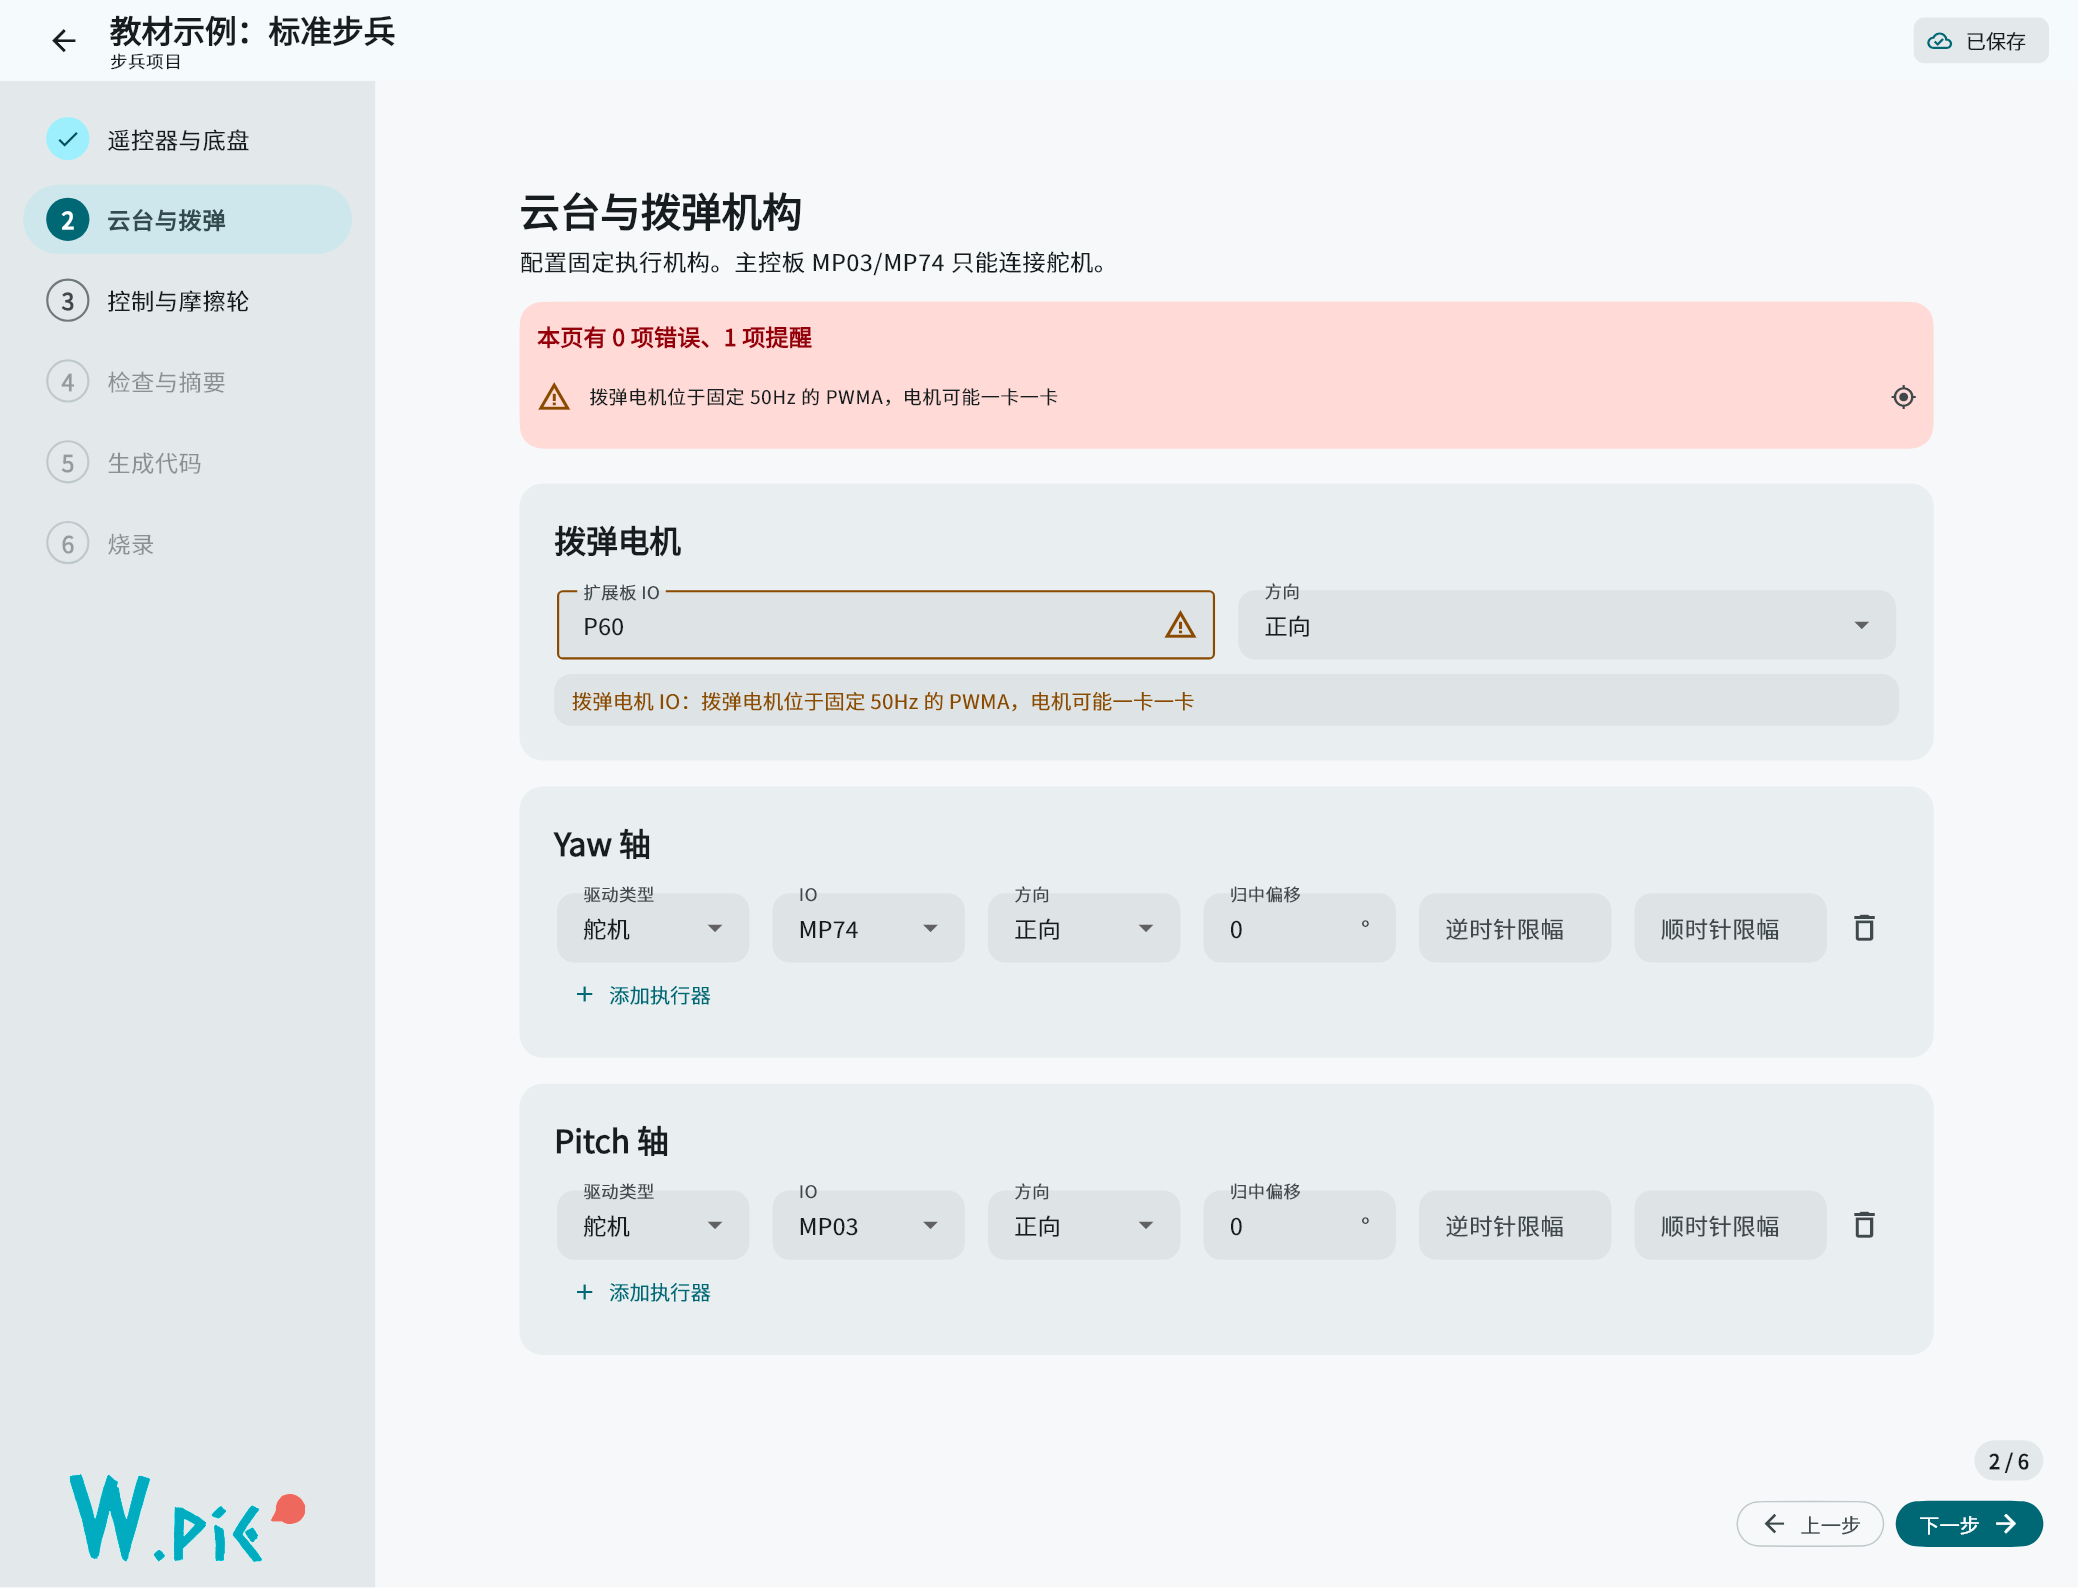
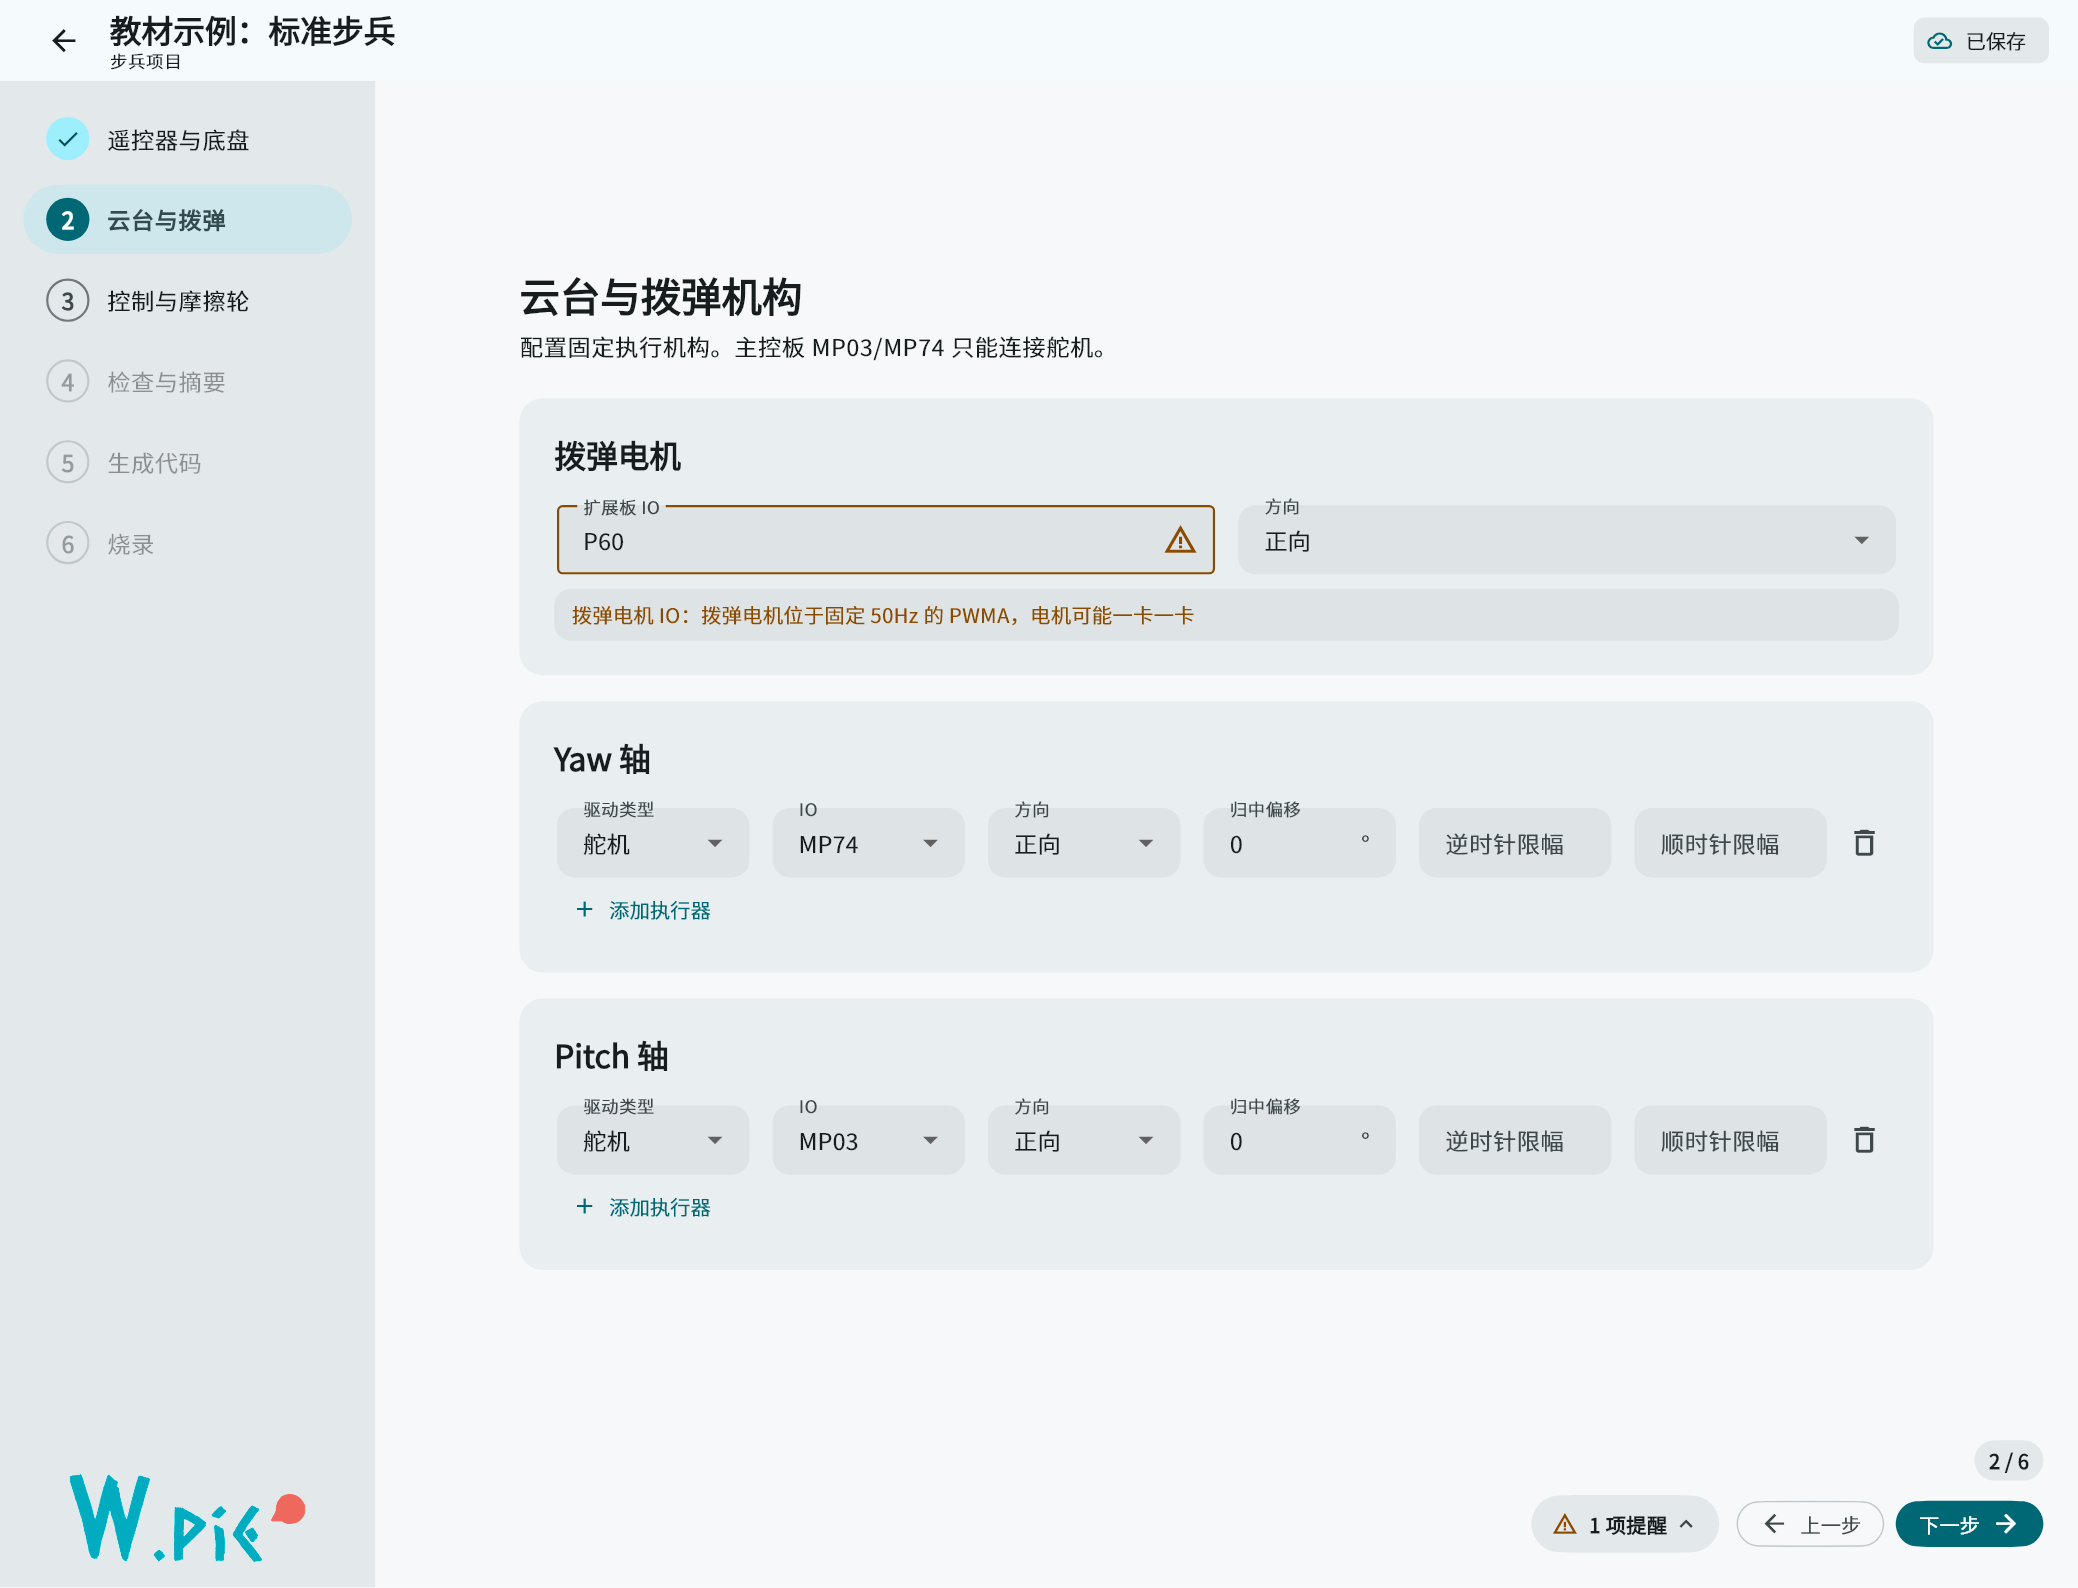
docs(book): 同步步骤问题面板位置与截图
更新第 4 章图注，重生成云台与拨弹页截图，并记录严重度配色问题已处理。

diff --git a/docs/design/交互手感评估与改进建议.md b/docs/design/交互手感评估与改进建议.md
@@ -168,7 +168,7 @@
 
 ### 4.5 视觉与文案（来自真机截图，最容易改、收益直观）
 
-1. **严重度配色用错**：截图 `wizard.webp` 顶部横幅是 error 容器配色，内容却是"本页有 0 项错误、1 项提醒"（`wizard_screen.dart:1137-1144` 恒定用 `errorContainer`/`error` 描边）→ 建议按最高严重度取色，仅有提醒时用 warning 色。
+1. **严重度配色用错**：截图 `wizard.webp` 顶部横幅是 error 容器配色，内容却是"本页有 0 项错误、1 项提醒"（`wizard_screen.dart:1137-1144` 恒定用 `errorContainer`/`error` 描边）→ 建议按最高严重度取色，仅有提醒时用 warning 色。**已处理：** 问题面板移到右下操作区左侧并默认折叠，改用中性表面色，严重度只体现在图标与文字颜色。
 2. **标签与消息重复**：截图里字段下方是"冲刺速度：冲刺速度低于 9000，底盘移动速度可能变慢"（`:322` 前缀 + `validator.dart:110` 自带字段名）→ 去掉前缀，与检查页（`subtitle: Text(issue.message)`）保持一致。
 3. **检查页暴露内部路径**：`chassis.right_front.pin`、`controls.friction_max_duty`（`wizard_screen.dart:3168`）→ 换成 `_fieldLabel` 的中文名，路径挪进 tooltip 或调试模式。
 4. **保存徽标 idle 文案"等待保存"**（`:988`）在刚进项目时略惊悚 → 改"本地已保存"或不显示。
